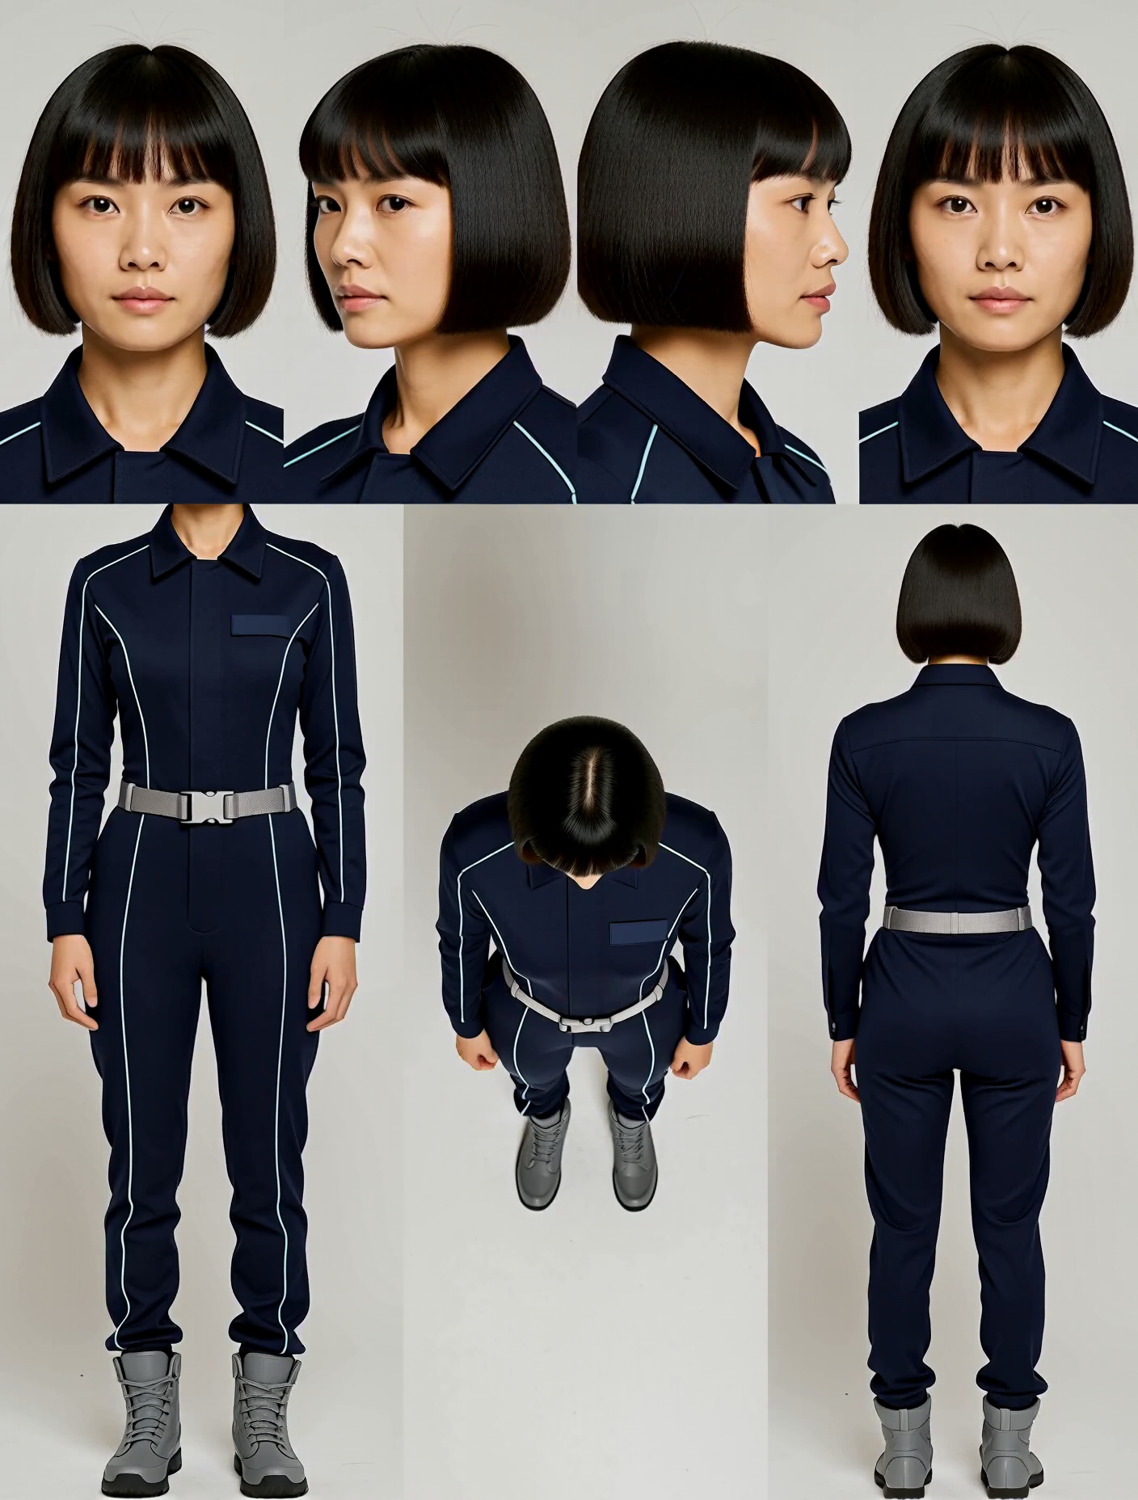
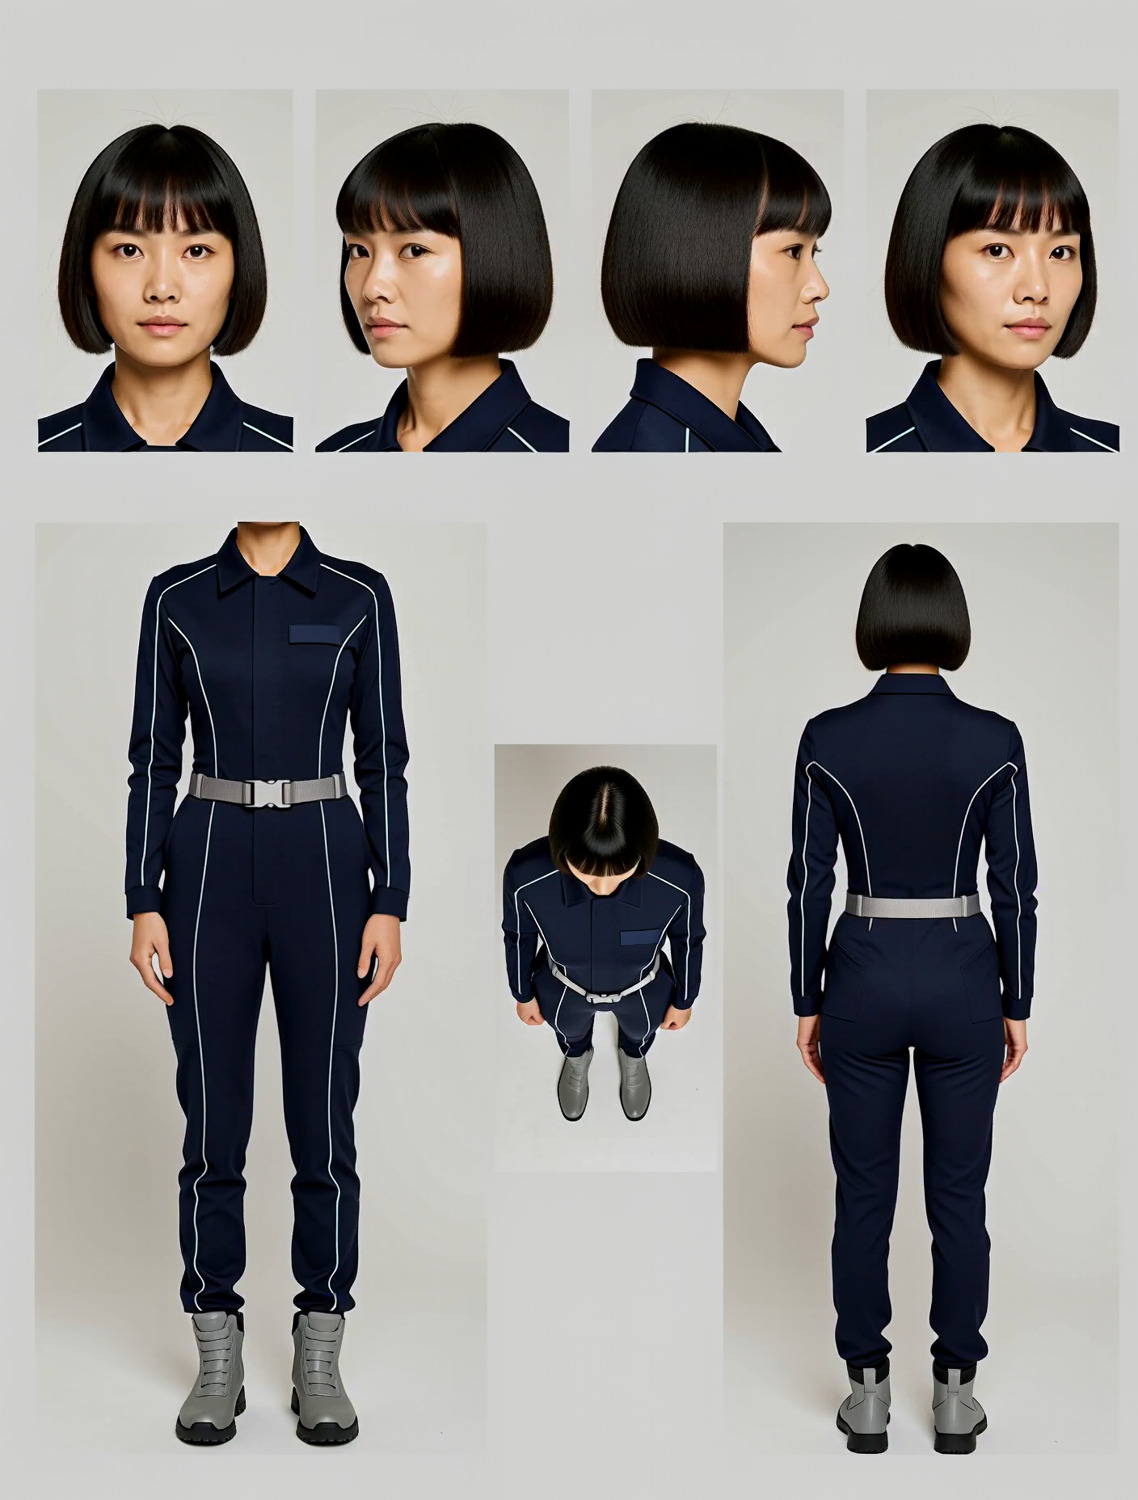
Fix preset 7 head angles and refresh sample

diff --git a/README.md b/README.md
@@ -12,15 +12,15 @@ Eleven sheets featuring ten original fictional characters — **five women and f
 
 ## Preset 7 — four heads above front, top and rear body views
 
-**Lin — orbital pilot** · 1408 × 1856 · sheet index `7` · seed `27111`
+**Lin — orbital pilot** · 1408 × 1856 · sheet index `7` · seed `42`
 
-Four head portraits run across the top. Below are a front body crop from the neck to the feet, a top-down body view, and a complete rear view including the head. The canvas is **3:4 portrait**.
+The top row reads left to right: **front, three-quarter facing left, profile facing right, three-quarter facing right**. Below are a front body crop from the neck to the feet, a top-down body view, and a complete rear view including the head. The canvas is **3:4 portrait**.
 
 [![Lin in the new seven-view character sheet](examples/previews/11_lin_seven_view_turnaround_sheet.jpg)](examples/sheets/11_lin_seven_view_turnaround.png)
 
 [Full-resolution sheet](examples/sheets/11_lin_seven_view_turnaround.png) · [Input portrait](examples/references/02_lin_orbital_pilot.png) · [Prompt](examples/prompts/11_lin_seven_view_turnaround_sheet.txt)
 
-The fourth portrait remains close to frontal in this unretouched output; head angles can vary by seed.
+This unretouched sample uses the revised concise prompt at seed **42**. Head angles can vary with the reference and seed.
 
 ## Install
 
@@ -143,6 +143,8 @@ If the wrong face/outfit appears, compare the active image order with pic_N role
 
 Set **Canvas size → aspect_ratio** to the value above after choosing a preset. **Changing CHOOSE SHEET does not change the canvas automatically.** Keep megapixels at **2.5** and multiple at **32** as a starting point. Preset 6 is editable free text: use 3:4 for its default single portrait, or choose a ratio that fits your custom composition. The saved workflow selects preset 7 and 3:4 portrait.
 
+Preset **7** top row, left to right: **front → three-quarter facing left → profile facing right → three-quarter facing right**. Directions refer to the image edges. Below: front body cropped at the collar, overhead body, complete rear body. Use **3:4 (Portrait Standard)**.
+
 Only the selected description is used. Edit its matching numbered text node below. Values 8-9 have no template; use 0-7.
 
 ## 04 - model setup
@@ -179,7 +181,7 @@ Before reusing a result, check EVERY panel:
 - Profile is a true 90-degree view with the far eye hidden.
 - Full hairstyle fits in headshots; hands and feet fit in body views.
 - Similar head size and lighting across the headshots.
-- The neck-to-feet crop is intentional only for options 3 and 5.
+- The neck-to-feet crop is intentional only for options 3, 5 and 7.
 
 Try another seed if a panel drifts. A simpler 2- or 3-view sheet can be more useful than a crowded sheet with inconsistent identity.
 

diff --git a/examples/README.md b/examples/README.md
@@ -10,15 +10,15 @@ Layouts 3, 5 and 7 intentionally crop the front body panel from the neck down.
 
 ## Preset 7 — four heads above front, top and rear body views
 
-**Lin — orbital pilot** · 1408 × 1856 · sheet index `7` · seed `27111`
+**Lin — orbital pilot** · 1408 × 1856 · sheet index `7` · seed `42`
 
-Four head portraits run across the top. Below are a front body crop from the neck to the feet, a top-down body view, and a complete rear view including the head. The canvas is **3:4 portrait**.
+The top row reads left to right: **front, three-quarter facing left, profile facing right, three-quarter facing right**. Below are a front body crop from the neck to the feet, a top-down body view, and a complete rear view including the head. The canvas is **3:4 portrait**.
 
 [![Lin in the new seven-view character sheet](previews/11_lin_seven_view_turnaround_sheet.jpg)](sheets/11_lin_seven_view_turnaround.png)
 
 [Full-resolution sheet](sheets/11_lin_seven_view_turnaround.png) · [Input portrait](references/02_lin_orbital_pilot.png) · [Prompt](prompts/11_lin_seven_view_turnaround_sheet.txt)
 
-The fourth portrait remains close to frontal in this unretouched output; head angles can vary by seed.
+This unretouched sample uses the revised concise prompt at seed **42**. Head angles can vary with the reference and seed.
 
 This unretouched sample uses the public stock `minimax_h3_ref2va_int8_convrot.safetensors` overlay with the FL2VA base, **2.5 MP · 25 steps · ER-SDE · simple · CFG 1 · DMAD 0.8 · sigma shift 16/2**. It reuses the original Lin portrait. To reproduce it, load that portrait into Picture 1, select **face + hair**, copy the character description from the linked prompt into BIND 1, and use preset 7 with the seed above. Per-sample model settings are recorded in the metadata.
 
